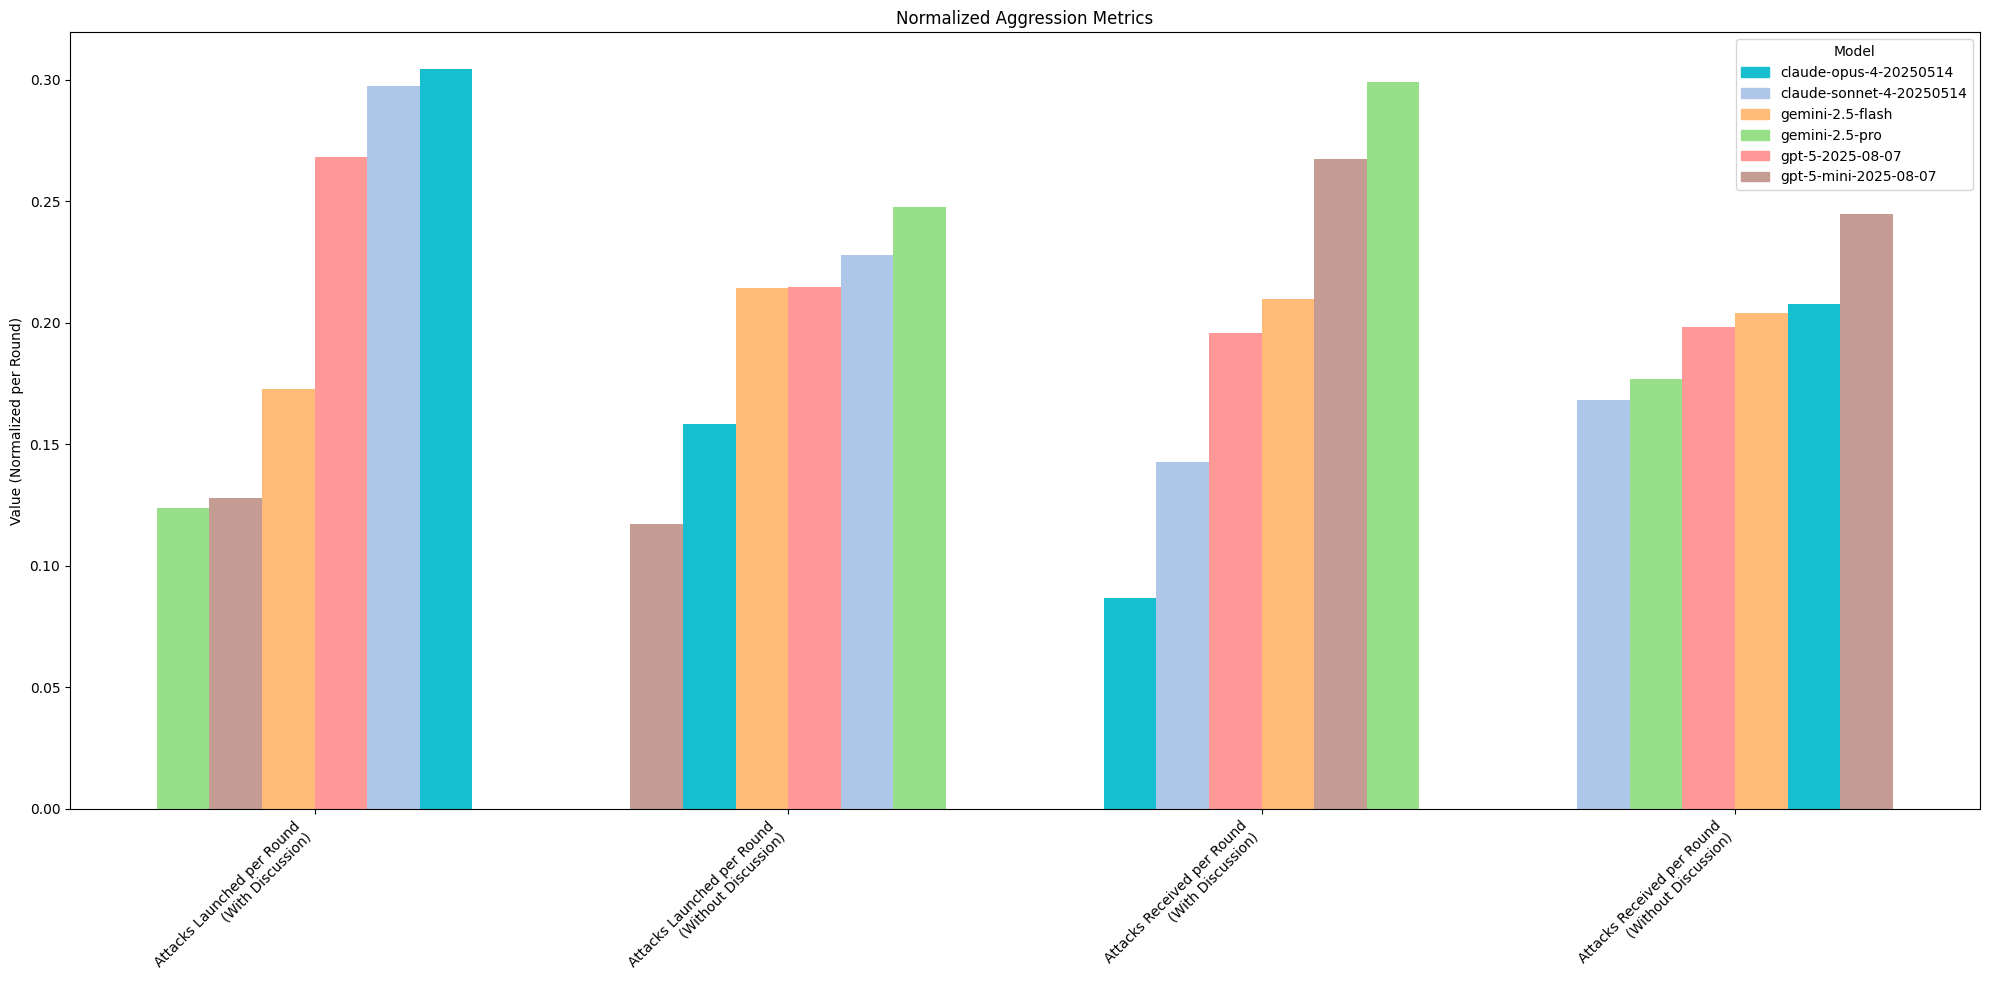
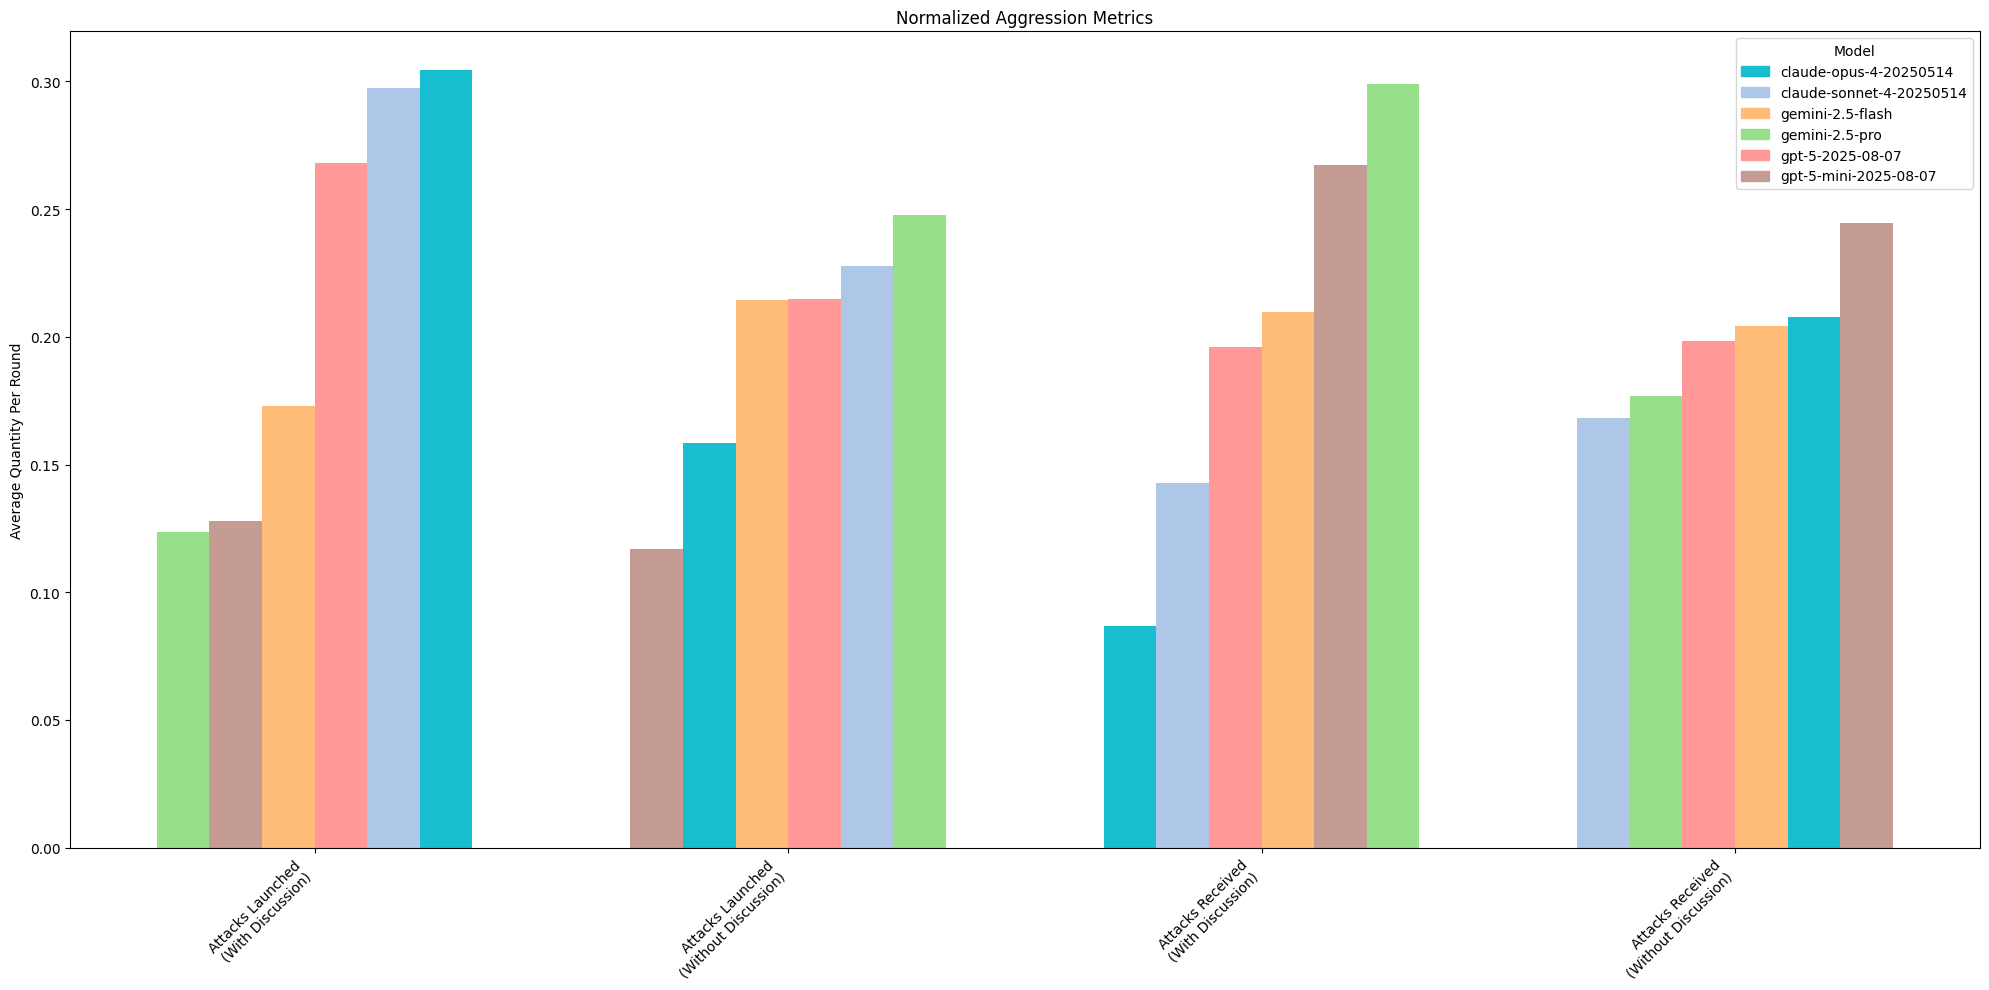
update all the color schemes of charts and update some of the discussion for clarity

diff --git a/analysis/main.py b/analysis/main.py
@@ -343,29 +343,77 @@ def run_analysis(df, output_dir, analysis_type):
     eco_stats = df.groupby(['model', 'public_discussion']).agg(
         avg_coins_earned=('total_coins_earned', 'mean'),
         total_earned=('total_coins_earned', 'sum'),
-        total_lost_to_theft=('coins_lost_to_theft', 'sum')
+        coins_lost_to_theft=('coins_lost_to_theft', 'sum')
     ).reset_index()
-    eco_stats['efficiency_ratio'] = np.divide(eco_stats['total_earned'], eco_stats['total_lost_to_theft'])
-    eco_stats['efficiency_ratio'] = eco_stats['efficiency_ratio'].replace([np.inf, -np.inf], np.nan)
-    
-    eco_stats_melted = eco_stats.melt(id_vars=['model', 'public_discussion'],
-                                          value_vars=['avg_coins_earned', 'efficiency_ratio'],
-                                          var_name='metric', value_name='value')
-    discussion_map = {True: 'with discussion', False: 'without discussion'}
-    eco_stats_melted['public_discussion'] = eco_stats_melted['public_discussion'].map(discussion_map)
-    eco_stats_melted['metric_discussion'] = eco_stats_melted['metric'] + " (" + eco_stats_melted['public_discussion'] + ")"
+    eco_stats['efficiency_ratio'] = np.divide(eco_stats['total_earned'], eco_stats['coins_lost_to_theft'])
+    eco_stats['efficiency_ratio'] = eco_stats['efficiency_ratio'].replace([np.inf, -np.inf], np.nan).fillna(0)
 
-    pivot_df = eco_stats_melted.pivot(index='model', columns='metric_discussion', values='value').fillna(0)
+    discussion_map = {True: 'With Discussion', False: 'Without Discussion'}
+    eco_stats['discussion'] = eco_stats['public_discussion'].map(discussion_map)
     
-    fig, ax = plt.subplots(figsize=(15, 8))
-    pivot_df.plot(kind='bar', ax=ax, width=0.8)
+    models = sorted(eco_stats['model'].unique())
+    color_map = get_color_map(models)
+    discussion_types = ['With Discussion', 'Without Discussion']
+
+    fig, (ax1, ax2) = plt.subplots(1, 2, figsize=(24, 10))
+    fig.suptitle('Economic Performance', fontsize=16)
+
+    # --- Plot 1: Average Coins Earned ---
+    metric1 = 'avg_coins_earned'
+    ax1.set_title('Average Coins Earned')
+    ax1.set_ylabel('Average Coins')
     
-    ax.set_ylabel('Value')
-    ax.set_title('Economic Performance')
-    ax.set_xticklabels(pivot_df.index, rotation=45, ha="right")
-    ax.legend(title='Metric')
+    bar_width = 0.8 / len(models)
+    x_pos = 0
+    x_ticks = []
+    x_tick_labels = []
+
+    for discussion in discussion_types:
+        group_data = eco_stats[eco_stats['discussion'] == discussion]
+        group_data = group_data.sort_values(metric1, ascending=True)
+        
+        bar_positions = [x_pos + i * bar_width for i in range(len(group_data))]
+        ax1.bar(bar_positions, group_data[metric1], width=bar_width, color=[color_map[m] for m in group_data['model']])
+        
+        group_center = x_pos + (len(models) - 1) * bar_width / 2
+        x_ticks.append(group_center)
+        x_tick_labels.append(discussion)
+        
+        x_pos += len(models) * bar_width + 0.4
+        
+    ax1.set_xticks(x_ticks)
+    ax1.set_xticklabels(x_tick_labels, rotation=0, ha="center")
+
+    # --- Plot 2: Economic Efficiency Ratio ---
+    metric2 = 'efficiency_ratio'
+    ax2.set_title('Economic Efficiency (Earned/Lost to Theft)')
+    ax2.set_ylabel('Ratio')
+
+    x_pos = 0
+    x_ticks = []
+    x_tick_labels = []
+
+    for discussion in discussion_types:
+        group_data = eco_stats[eco_stats['discussion'] == discussion]
+        group_data = group_data.sort_values(metric2, ascending=True)
+        
+        bar_positions = [x_pos + i * bar_width for i in range(len(group_data))]
+        ax2.bar(bar_positions, group_data[metric2], width=bar_width, color=[color_map[m] for m in group_data['model']])
+        
+        group_center = x_pos + (len(models) - 1) * bar_width / 2
+        x_ticks.append(group_center)
+        x_tick_labels.append(discussion)
+        
+        x_pos += len(models) * bar_width + 0.4
+
+    ax2.set_xticks(x_ticks)
+    ax2.set_xticklabels(x_tick_labels, rotation=0, ha="center")
+
+    # --- Legend and Layout ---
+    legend_handles = [plt.Rectangle((0,0),1,1, color=color_map[model]) for model in models]
+    fig.legend(legend_handles, models, title='Model', loc='upper right', bbox_to_anchor=(0.99, 0.95))
     
-    fig.tight_layout()
+    fig.tight_layout(rect=[0, 0.03, 1, 0.95])
     
     plot_path = os.path.join(output_dir, "economic_performance.png")
     save_plot(fig, plot_path)
@@ -448,8 +496,8 @@ def run_analysis(df, output_dir, analysis_type):
     color_map = get_color_map(models)
 
     metric_labels = {
-        'attacks_launched_per_round': 'Attacks Launched per Round',
-        'attacks_received_per_round': 'Attacks Received per Round'
+        'attacks_launched_per_round': 'Attacks Launched', 
+        'attacks_received_per_round': 'Attacks Received'
     }
     discussion_types = ['With Discussion', 'Without Discussion']
     
@@ -481,7 +529,7 @@ def run_analysis(df, output_dir, analysis_type):
             
             x_pos += len(models) * bar_width + 0.4
 
-    ax.set_ylabel('Value (Normalized per Round)')
+    ax.set_ylabel('Average Quantity Per Round')
     ax.set_title('Normalized Aggression Metrics')
     ax.set_xticks(x_ticks)
     ax.set_xticklabels(x_tick_labels, rotation=45, ha="right")
@@ -502,9 +550,12 @@ def run_analysis(df, output_dir, analysis_type):
     ).reset_index()
     discussion_map = {True: 'with discussion', False: 'without discussion'}
     game_dynamics['public_discussion'] = game_dynamics['public_discussion'].map(discussion_map)
+
+    # Re-use the first two colors from the distinct color list for consistency
+    colors = ['#17becf', '#aec7e8']
     
     fig, ax = plt.subplots(figsize=(8, 6))
-    ax.bar(game_dynamics['public_discussion'], game_dynamics['avg_play_time'], color=['#1f77b4', '#ff7f0e'])
+    ax.bar(game_dynamics['public_discussion'], game_dynamics['avg_play_time'], color=colors)
 
     ax.set_ylabel('Average Play Time (seconds)')
     ax.set_title('Average Play Time per Game')

diff --git a/docs/index.md b/docs/index.md
@@ -47,25 +47,23 @@ We decided to test a combination of large reasoning models (LRMs) and non-reason
 
 We tend to see the reasoning models go through higher-order thinking sequences, simulating opponent's intentions, positions, and strategies to craft their own advantages throughout the game. Non-reasoning models seem to think along shorter horizons.
 
-Generally, we are seeing that models are able to maintain coherent reasoning traces to explain their decisions. The reasoning _seems_ sensical and grounded in sound probabilities and accurate modeling. Thinking models discernibly think 2-3 steps ahead of non-thinking models.
+Generally, we are seeing that all tested models are able to maintain coherent reasoning traces to explain their decisions. The reasoning _seems_ sensical and grounded in sound probabilities and accurate modeling. All models demonstrate the capacity to selectively deceive in order to achieve their ultimate goal. 
+
+### Large Reasoning Models Surpass Normal LLMs
 
 ![OVERALL WIN RATE GRAPH](./charts/mixed_model/win_rate_by_model.png)
 
-We encounter fairly surprising results in the overall win statistics. It's not uncommon to see upset victories, with `gemini-2.5-flash` or `claude-sonnet-4` beating out their competition and winning. However, we do see that the `gpt-5` models come out ahead in both scenarios, with and without discussion enabled. This implies that they are highly capable at opponent modeling and targeted bluffing. We find that the distribution is more or less consistent with overall reasoning capabilties when we have discussion turned on. However, with discussion turned off, we see some surprising results. For instance, `gemini-2.5-flash` seems to beat out `gpt-5-mini` without discussion. In fact, `gemini-2.5-flash` seems to have the least variance between the discussion on and discussion off modalities.
+We encounter fairly surprising results in the overall win statistics. It's not uncommon to see upset victories, with `gemini-2.5-flash` or `claude-sonnet-4` beating out their competition and winning. However, we do see that the `gpt-5` models come out ahead in both scenarios, with and without discussion enabled. This implies that they are highly capable at opponent modeling and targeted bluffing. We find that the distribution is more or less consistent with overall reasoning capabilties when we have discussion turned on. However, with discussion turned off, we see some surprising results. For instance, `gemini-2.5-flash` seems to beat out `gpt-5-mini` without discussion.
 
 ![ELIMINATION ROUND RATES](./charts/mixed_model/average_elimination_round_by_model.png)
 
 Since Coup is not a game of binary winners and losers, we can assess the loss 'placement' of players - e.g., how many rounds did they last before they were killed. This helps us collect a more normalized measurement of skill at the game overall. The longer a model lasts, the better they are at the game play. Interestingly, games with discussion tend to last slightly longer, implying that they also demonstrate reduced aggression.
 
-![ELIMINATION REASON GRAPH](./charts/mixed_model/elimination_causes_by_model.png)
-
-Generally speaking, the most common reason a player was eliminated is because they failed a challenge. But, they were proportionally more likely to fail challenges when discussions was removed, suggesting that the models revealing information increased the ability to discern what actual positions were, or it made them mroe risk averse.
-
-Conversely, with discussion enabled, models were far _more_ likely to perform failed bluffs. Failed bluffs are when a model performs a bluff that is then challenged by another model. This generally indicates to us that more honest discourse was more likely achieved when discussion was enabled, without any specific push towards driving the models in that direction. When discussion was enabled, it was far more likely for models to be eliminated through targeted motions (coups or assassinations) than modeling mismatches. The one exception to this trend seems to be `claude-opus`.
+### Capabilities for Strategic Deception
 
 ![GRAPH ABOUT DECEPTION](./charts/mixed_model/deception_behavior.png)
 
-When it comes to deception, we see that enabling or disabling discussion significantly affects the results. Generally, models are 20% more likely to get away with a bluff if discussion is turned off. Seeing that the bluffing rates themselves have not decreased, but the success have increased, it's more likely that public discussion may be affecting models' ability to appropriately calculate risk. It is possible that model's are opting for higher confidence bluffs, but we should expect the frequncy of bluffs to decrease alongside such a causation. We observe mixed trends in how frequently models bluff, with and without discussions, though it does seem to significantly affect the behavior. `claude-sonnet` seems to have the highest baseline tendencies to bluff.
+When it comes to deception, we see that the discussion mode significantly affects the results. Generally, models are 20% more likely to get away with a bluff if discussion is turned off. Seeing that the bluffing rates themselves have not decreased, but the success have increased, it's more likely that public discussion may be affecting models' ability to appropriately calculate risk. It is possible that model's are opting for higher confidence bluffs, but we should expect the frequncy of bluffs to decrease alongside such a causation. We observe mixed trends in how frequently models bluff, with and without discussions, though it does seem to significantly affect the behavior. `claude-sonnet` seems to have the highest baseline tendencies to bluff.
 
 Importantly, we find that *all* models we tested participate in some form of deception. They are all capable of strategically misrepresenting their capabilities or positions in order to achieve some ultimate goal. In deployed scenarios, this has interesting implications for how business and organizatonal actors deploy their LLMs for strategic purposes, and how they affect end users.
 
@@ -73,15 +71,29 @@ Importantly, we find that *all* models we tested participate in some form of dec
 
 All models had varying degrees of success with bluffing, with `gpt-5` and `gemini-2.5` models outperform the `claude` series.
 
+### Capabilities for Opponent Modeling
+
 ![GRAPH ABOUT CHALLENGE WIN RATE](./charts/mixed_model/challenge_behavior.png)
 
 Challenge win rates are informative for revealing how accurate a model's ability to card count or model their opponents is. The better a model is at predicting the cards other players have, the higher their challenge win rate will be. However, the win rate does not factor in their aggression. A more aggressive player may use more attempts, challenging even when their confidence level is low. We find that `gpt-5` seems to have the best win rates, alongside `claude-sonnet` and `gemini-2.5-pro`. `gemini-2.5-pro` seems to significantly benefit from discussion being turned off for its win rate.
 
 Games without discussion seem to more clearly favor thinking models. This may be because LLMs seem to be somewhat liable to 'give away' their strategies in their discussion. In turn, players have to solely rely on implicit information without discussion.
 
+### Models' Failure Modes
+
+![ELIMINATION REASON GRAPH](./charts/mixed_model/elimination_causes_by_model.png)
+
+Generally speaking, the most common reason a player was eliminated is because they failed a challenge. But, they were proportionally more likely to fail challenges when discussions was removed, suggesting that the models revealing information increased the ability to discern what actual positions were, or it made them mroe risk averse.
+
+Conversely, with discussion enabled, models were far _more_ likely to perform failed bluffs. Failed bluffs are when a model performs a bluff that is then challenged by another model. This generally indicates to us that more honest discourse was more likely achieved when discussion was enabled, without any specific push towards driving the models in that direction. When discussion was enabled, it was far more likely for models to be eliminated through targeted motions (coups or assassinations) than modeling mismatches. The one exception to this trend seems to be `claude-opus`.
+
+### Latent Aggression
+
 ![GRAPH SHOWING AGGRESSION METRICS](./charts/mixed_model/aggression_metrics.png)
 
-We see a slight indication that the `claude-` family of models are more prone to using attack capabilities than the other models we tested, in discussion mode. This includes any offensive action (i.e., `coup`, `steal`, `assassinate`). There seems to be a slight convergence in attacks on `gemini-2.5-pro` when discussion is turned on. The results for both attacks lunched and attacks received have less variance amongst models when discussion is disabled. This suggests that social cohesion and susceptibility to persuasion play a strong role in model decision-making. They seem to converge on attacking particular players, suggesting that some cooperative decision-making is being applied automatically, without incentives.
+We see a slight indication that the `claude-` family of models are more prone to using attack capabilities than the other models we tested in discussion mode. This includes any offensive action (i.e., `coup`, `steal`, `assassinate`). There seems to be a slight convergence in attacks on `gemini-2.5-pro` when discussion is turned on. The results for both attacks lunched and attacks received have less variance amongst models when discussion is disabled. This suggests that social cohesion and susceptibility to persuasion play a strong role in model decision-making. They seem to converge on attacking particular players, suggesting that some cooperative decision-making is being applied automatically, without incentives.
+
+### Time to Completion
 
 ![AVG TIME GAME PLAY CHART](./charts/mixed_model/game_dynamics.png)
 
@@ -268,9 +280,22 @@ You can find scripts we used to process the data in the [analysis folder on GitH
 
 ### Visual Analysis
 
-All charts are included here that were used as part of the analysis.
+All charts are included that were used as part of the analysis for reference.
 
-#### Discussion Charts
+#### Mixed Model Charts
+
+These contain all of the analyses we conducted to assess game play dynamics amongst the tested models.
+
+![Aggression Metrics](./charts/mixed_model/aggression_metrics.png)
+![Average Elimination Round by Model](./charts/mixed_model/average_elimination_round_by_model.png)
+![Challenge Behavior](./charts/mixed_model/challenge_behavior.png)
+![Deception Behavior](./charts/mixed_model/deception_behavior.png)
+![Economic Performance](./charts/mixed_model/economic_performance.png)
+![Elimination Causes by Model](./charts/mixed_model/elimination_causes_by_model.png)
+![Game Dynamics](./charts/mixed_model/game_dynamics.png)
+![Win Rate by Model](./charts/mixed_model/win_rate_by_model.png)
+
+#### Public Discussion Analysis
 
 When public discussion is enabled, we want to capture a general sense of what models choose to enter into the public record.
 
@@ -288,20 +313,7 @@ We measure category distributions for all model responses along 5 categories:
 ![Category Distribution for GPT-5](./charts/discussion/category_distribution_gpt-5-2025-08-07.png)
 ![Category Distribution for GPT-5 Mini](./charts/discussion/category_distribution_gpt-5-mini-2025-08-07.png)
 
-#### Mixed Model Charts
-
-These contain all of the analyses we conducted to assess game play dynamics amongst the tested models.
-
-![Aggression Metrics](./charts/mixed_model/aggression_metrics.png)
-![Average Elimination Round by Model](./charts/mixed_model/average_elimination_round_by_model.png)
-![Challenge Behavior](./charts/mixed_model/challenge_behavior.png)
-![Deception Behavior](./charts/mixed_model/deception_behavior.png)
-![Economic Performance](./charts/mixed_model/economic_performance.png)
-![Elimination Causes by Model](./charts/mixed_model/elimination_causes_by_model.png)
-![Game Dynamics](./charts/mixed_model/game_dynamics.png)
-![Win Rate by Model](./charts/mixed_model/win_rate_by_model.png)
-
-#### Qualitative Charts
+#### Reasoning Traces Analysis
 
 To understand why models are making the decisions they are, we do some basic qualitative assessment on their reasoning traces, provided with each game move. This includes their thoughts for bluffing, challenging, stealing, or any income collection.
 
